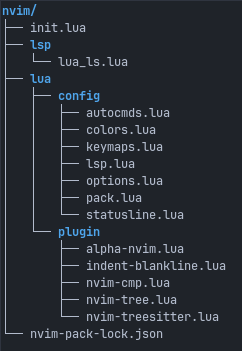
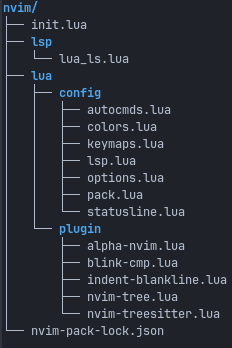
Replace nvim-cmp with blink.cmp
- modified:   README.md
- modified:   img/dir-tree.png
- modified:   nvim/init.lua
- modified:   nvim/lua/config/pack.lua
- deleted:    nvim/lua/plugin/nvim-cmp.lua

Please note that this is a unstable config for now

Changed region(s): [[0.1207, 0.2586, 0.9655, 0.977], [0.0, 0.0, 0.3922, 0.9483], [0.2414, 0.1437, 0.5431, 0.2011]]

diff --git a/README.md b/README.md
@@ -31,7 +31,7 @@ Neovim KISS configuration with Lua and LSP
 
 [nvim-lspconfig](https://github.com/neovim/nvim-lspconfig) - A collection of common configurations for Neovim's built-in language server client
 
-[nvim-cmp](https://github.com/hrsh7th/nvim-cmp) - Auto completion plugin
+[blink.cmp](https://github.com/Saghen/blink.cmp) - Auto completion plugin
 
 [LuaSnip](https://github.com/L3MON4D3/LuaSnip) - Snippet Engine for Neovim written in Lua
 
@@ -50,6 +50,8 @@ Neovim KISS configuration with Lua and LSP
 [alpha-nvim](https://github.com/goolord/alpha-nvim) - A fast and highly customizable greeter for neovim.
 
 [nvim-web-devicons](https://github.com/kyazdani42/nvim-web-devicons) - A Lua fork of vim-devicons
+
+**Plugins are managed using the built-in plugin manager** [vim.pack](https://neovim.io/doc/user/pack/#vim.pack)
 
 ## Directory Tree
 
@@ -93,7 +95,7 @@ Path for LSP configs `lsp/*.lua` files. See: [Lsp - CONFIG](https://neovim.io/do
 
 * [indent-blankline.lua](nvim/lua/plugin/indent-blankline.lua): Indent line
 
-* [nvim-cmp.lua](nvim/lua/plugin/nvim-cmp.lua): Autocompletion settings
+* [blink-cmp.lua](nvim/lua/plugin/blink-cmp.lua): Autocompletion settings
 
 * [nvim-tree.lua](nvim/lua/plugin/nvim-tree.lua): File manager settings
 
@@ -328,7 +330,6 @@ Note: Screenshots may be out of date compared to the actual setup.
 * [Lua - Neovim docs](https://neovim.io/doc/user/lua.html)
 
 * [Lua-guide - Neovim docs](https://neovim.io/doc/user/lua-guide.html#lua-guide)
-
 
 ---
 
